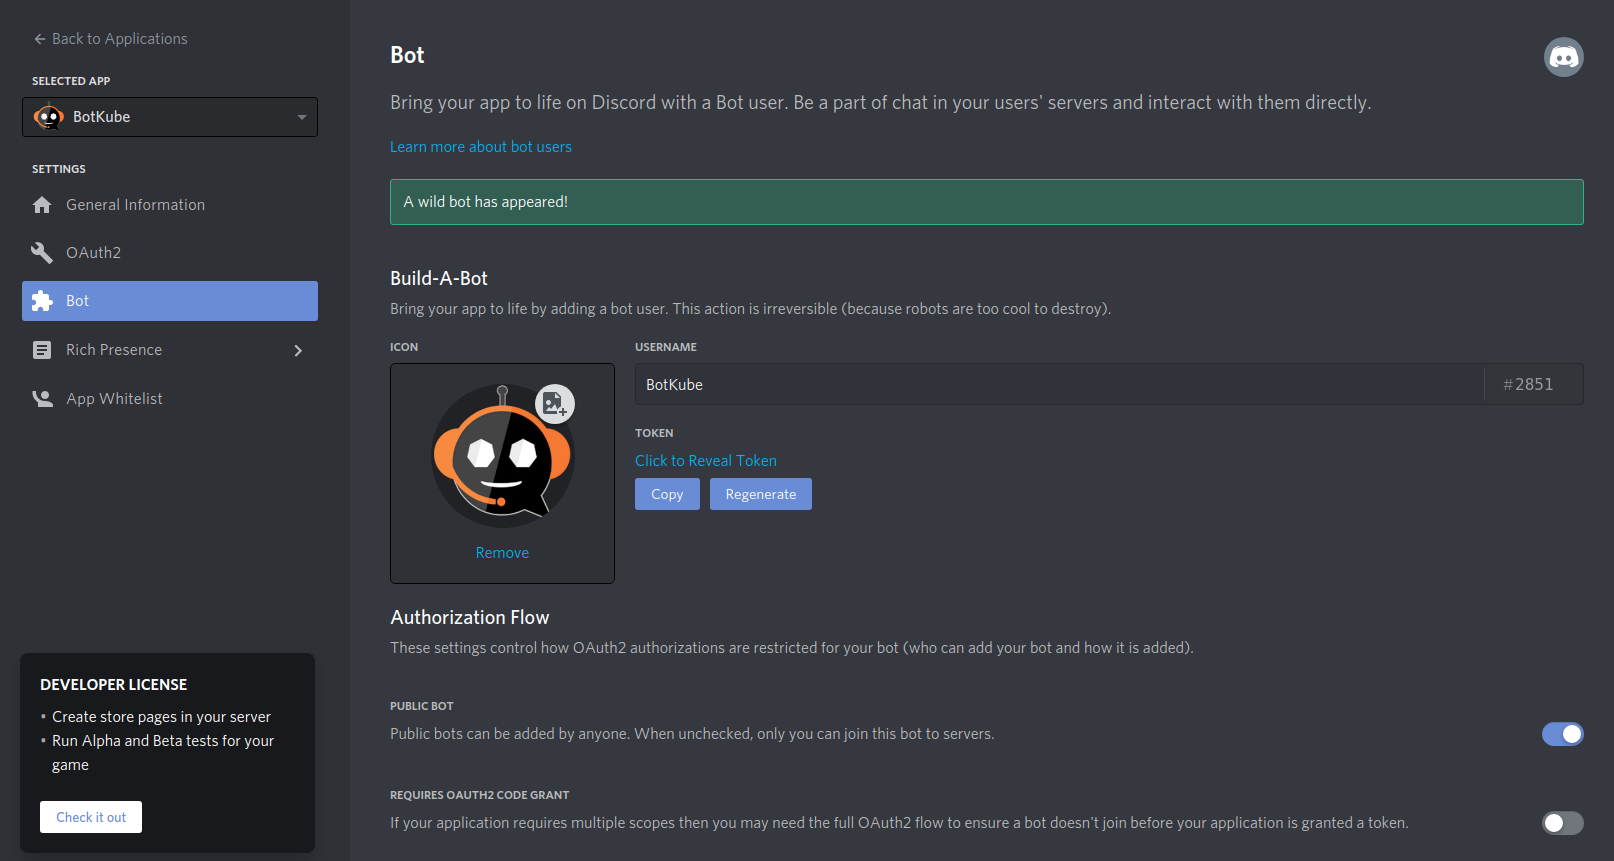
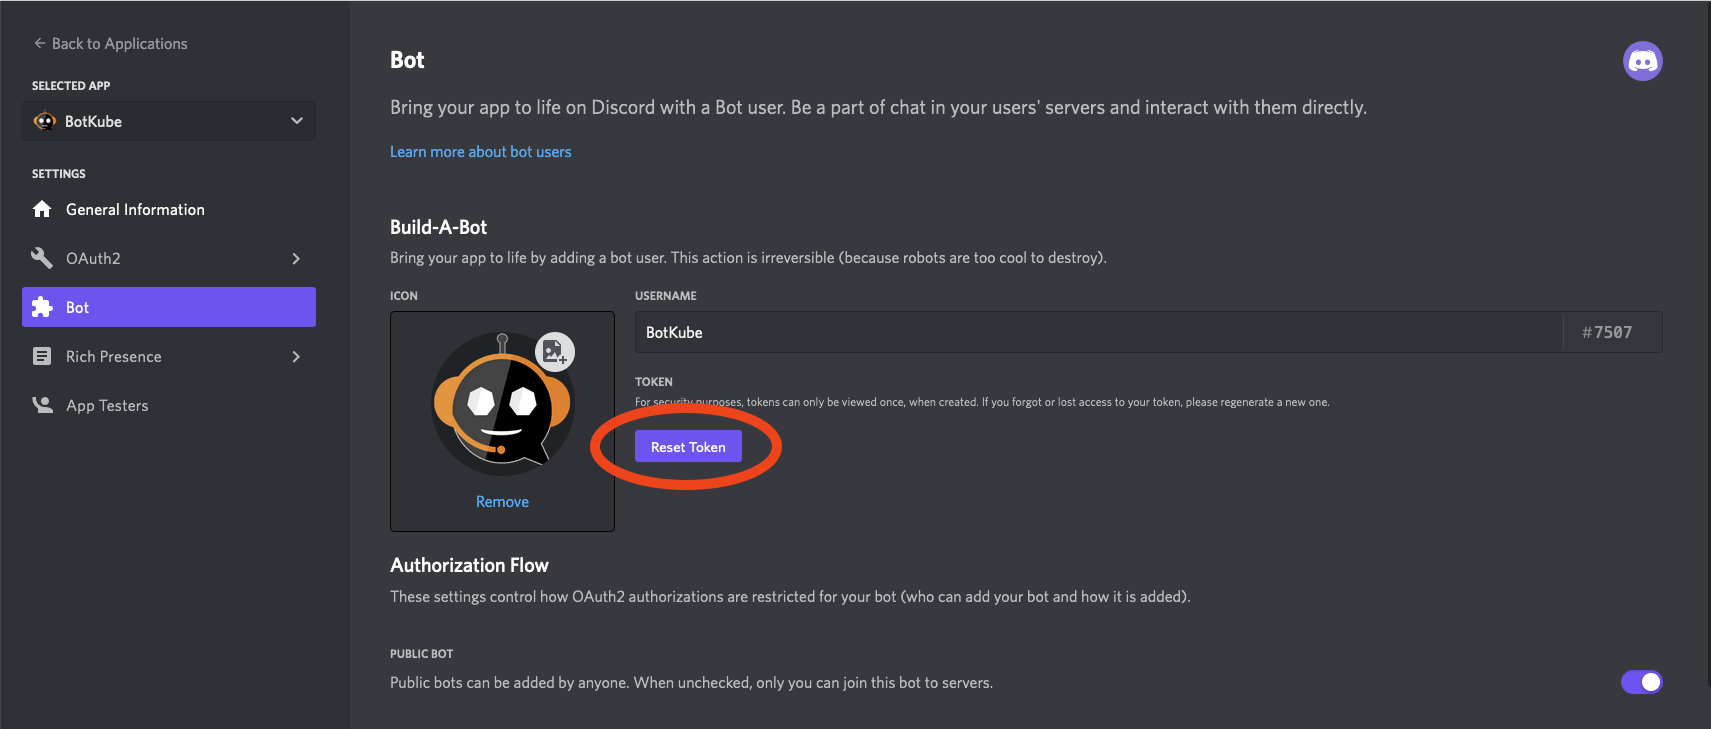
Update Discord installation guide and mention Mattermost bot name configuration (#75)
* Make Discord installation guide up-to-date
* Mention ability to configure custom bot username for Mattermost

diff --git a/content/installation/Discord/_index.md b/content/installation/Discord/_index.md
@@ -20,25 +20,25 @@ Follow the steps below to install BotKube Discord app to your Discord server.
 
     ![discord_create_new](/images/discord_create_new.png)
 
-3. Copy the Application **CLIENT ID** and place it under ``discord.botid`` in comm-config.yaml.
+3. Copy the Application **APPLICATION ID** and note it as it is required for BotKube installation.
+
+    ![discord_copy_client_id](/images/discord_copy_application_id.png)
 
     Add a description - `BotKube is a messaging bot for monitoring and debugging Kubernetes clusters. Visit https://www.botkube.io/usage for help.`.
 
-    And set the BotKube icon (BotKube icon can be downloaded from [this link](https://github.com/infracloudio/botkube/raw/develop/branding/logos/botkube_192x192.png)).
+    Set the BotKube icon (BotKube icon can be downloaded from [this link](https://github.com/infracloudio/botkube/raw/develop/branding/logos/botkube_192x192.png)).
 
     Click on Save Changes to update the Bot.
-
-    ![discord_copy_client_id](/images/discord_copy_client_id.png)
-
 
 4. Now, reach the **Bot** page and Click **Add Bot** to add a Discord Bot to your application.
 
     ![discord_add_bot](/images/discord_add_bot.png)
 
-5. After Bot creation, now you can see a bot is added to your application. Click on **Reveal Token**, copy and place Bot it under ``discord.token`` in comm-config.yaml.
+5. After Bot creation, now you can see a bot is added to your application. Click on the **Reset Token** button.
 
     ![discord_bot_created](/images/discord_bot_created.png)
 
+    Note the token as it is required for BotKube installation.
 
 6. Go to the **OAuth2** page. Generate the URL with suitable permissions using the **OAuth2 URL Generator** available under the OAuth2 section to add bot to your Discord server.
 
@@ -47,33 +47,30 @@ Follow the steps below to install BotKube Discord app to your Discord server.
     the generated URL contains **YOUR_CLIENT_ID**, Scope and permission details.
     
     ```
-    https://discordapp.com/oauth2/authorize?&client_id=<YOUR_CLIENT_ID>&scope=bot&permissions=<SET_OF_PERMISSIONS>
+    https://discord.com/api/oauth2/authorize?client_id=<YOUR_CLIENT_ID>&permissions=<SET_OF_PERMISSIONS>&scope=bot
     ```
 
-7. Copy and Paste the generated URL in a new tab, select the discord server to which you want to add the bot, click Continue and Authorise Bot addition.
+7. Copy and Paste the generated URL in a new tab, select the discord server to which you want to add the bot, click Continue and Authorize Bot addition.
 
     ![discord_bot_auth](/images/discord_bot_auth.png)
 
     ![discord_bot_auth_2](/images/discord_bot_auth_2.png)
 
-    Kudos to you..!!, you have successfully added BotKube bot to your server.
-    
-    ![discord_new_channel](/images/discord_new_channel.png)
+8. Switch to the Discord app. Navigate to **User settings** and select **Advanced** tab.
 
-8. Create a new channel and/or copy the  **CHANNEL ID** of an existing one.
-   To get the channel ID, right-click on a channel you want to receive notification in and click on **Copy ID**. Place the channel ID under ``discord.channel`` in comm-config.yaml.
+    Enable the **Developer Mode**.
 
-    ```yaml
-      # Settings for Discord
-      discord:
-        enabled: true
-        token: 'DISCORD_TOKEN'	    # BotKube Bot Token 
-        botid: 'DISCORD_BOT_ID'         # BotKube Application Client ID 
-        channel: 'DISCORD_CHANNEL_ID'   # Discord Channel id for receiving BotKube alerts 
-        notiftype: short                # Change notification type short/long you want to receive. notiftype is optional and Default notification type is short (if not specified)
-    ```
+    ![discord_developer_mode](/images/discord_developer_mode.png)
 
-9. Now, go ahead and install the BotKube backend on your Kubernetes cluster.
+9. Create a new channel or select an existing one and copy the **CHANNEL ID**.
+
+   To get the channel ID, right-click on a channel you want to receive notification in and click on **Copy ID**.
+
+   ![discord_copy_channel_id.png](/images/discord_copy_channel_id.png)
+
+   Note the copied channel ID as it is required for BotKube installation.
+
+10. Now, go ahead and install the BotKube backend on your Kubernetes cluster.
 
 {{% notice note %}}
 

diff --git a/content/installation/Mattermost/_index.md b/content/installation/Mattermost/_index.md
@@ -18,6 +18,10 @@ Login with System Admin account, and in the Menu proceed to **System console > I
 #### 2. Create BotKube user
 To create a BotKube user, if not already created, proceed to the menu and Get a team invite link. Logout from the admin account and paste the link in the address bar and create a user with the username **BotKube**.
 
+{{% notice note %}}
+You can also use a custom username for your bot. However, it needs to be passed during BotKube installation in one of the further steps.
+{{% /notice%}}
+
 ![mm_botkube_user](/images/mm_botkube_user.png)
 
 #### 3. Manage Roles for BotKube user
@@ -77,6 +81,7 @@ Autocomplete | True
   --set communications.mattermost.token=<MATTERMOST_TOKEN> \
   --set communications.mattermost.team=<MATTERMOST_TEAM> \
   --set communications.mattermost.channel=<MATTERMOST_CHANNEL> \
+  --set communications.mattermost.botName=<MATTERMOST_BOT_NAME> \
   --set config.settings.clustername=<CLUSTER_NAME> \
   --set config.settings.kubectl.enabled=<ALLOW_KUBECTL> \
   --set image.repository=infracloudio/botkube \
@@ -90,6 +95,7 @@ Autocomplete | True
   - **MATTERMOST_TOKEN** is the Token received by creating Personal Access Token for BotKube user<br>
   - **MATTERMOST_TEAM** is the Team name where BotKube is added<br>
   - **MATTERMOST_CHANNEL** is the Channel name where BotKube is added and used for communication<br>
+  - **MATTERMOST_BOT_NAME** is the Mattermost bot username (usually it is `BotKube`)<br>
   - **CLUSTER_NAME** is the cluster name set in the incoming messages<br>
   - **ALLOW_KUBECTL** set true to allow kubectl command execution by BotKube on the cluster<br>
 
